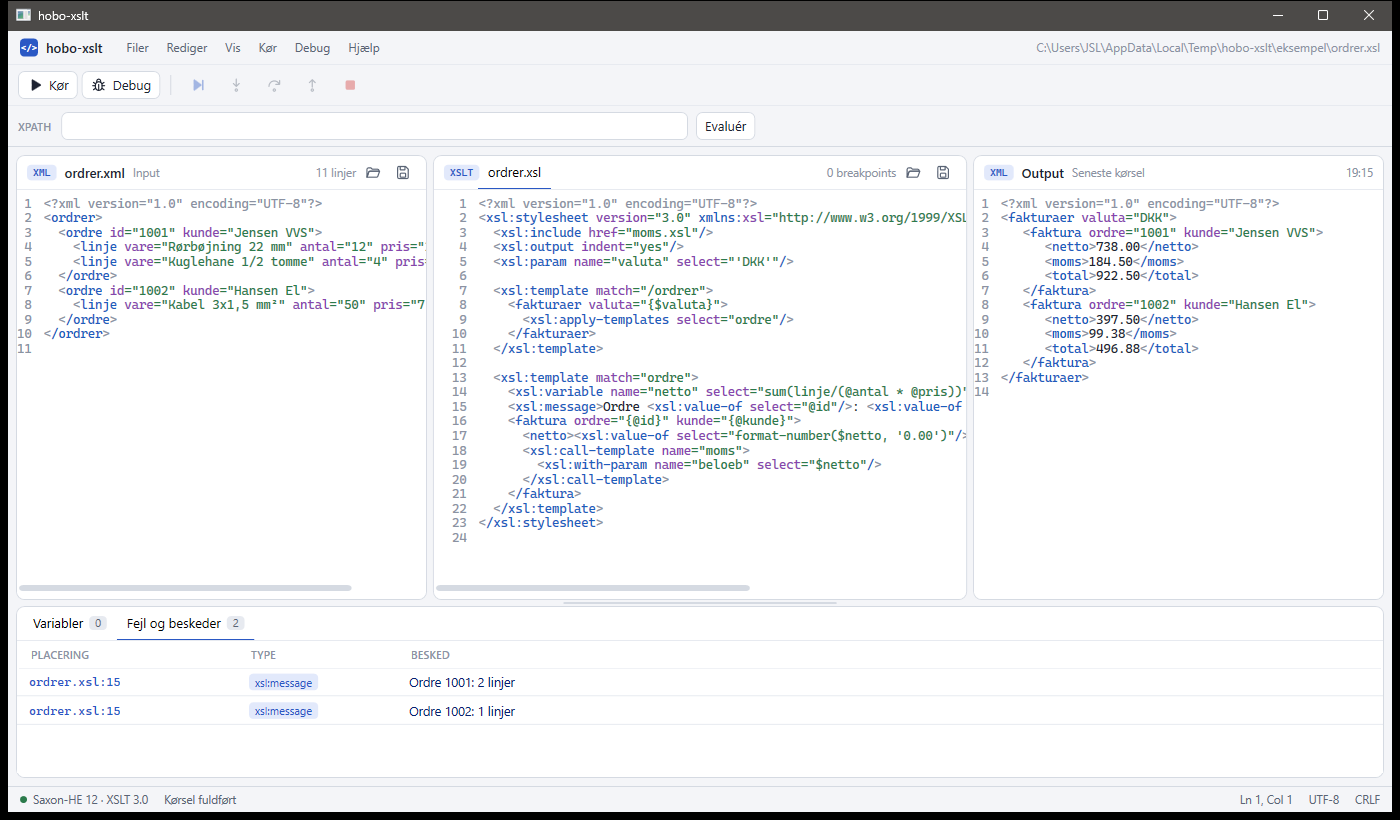
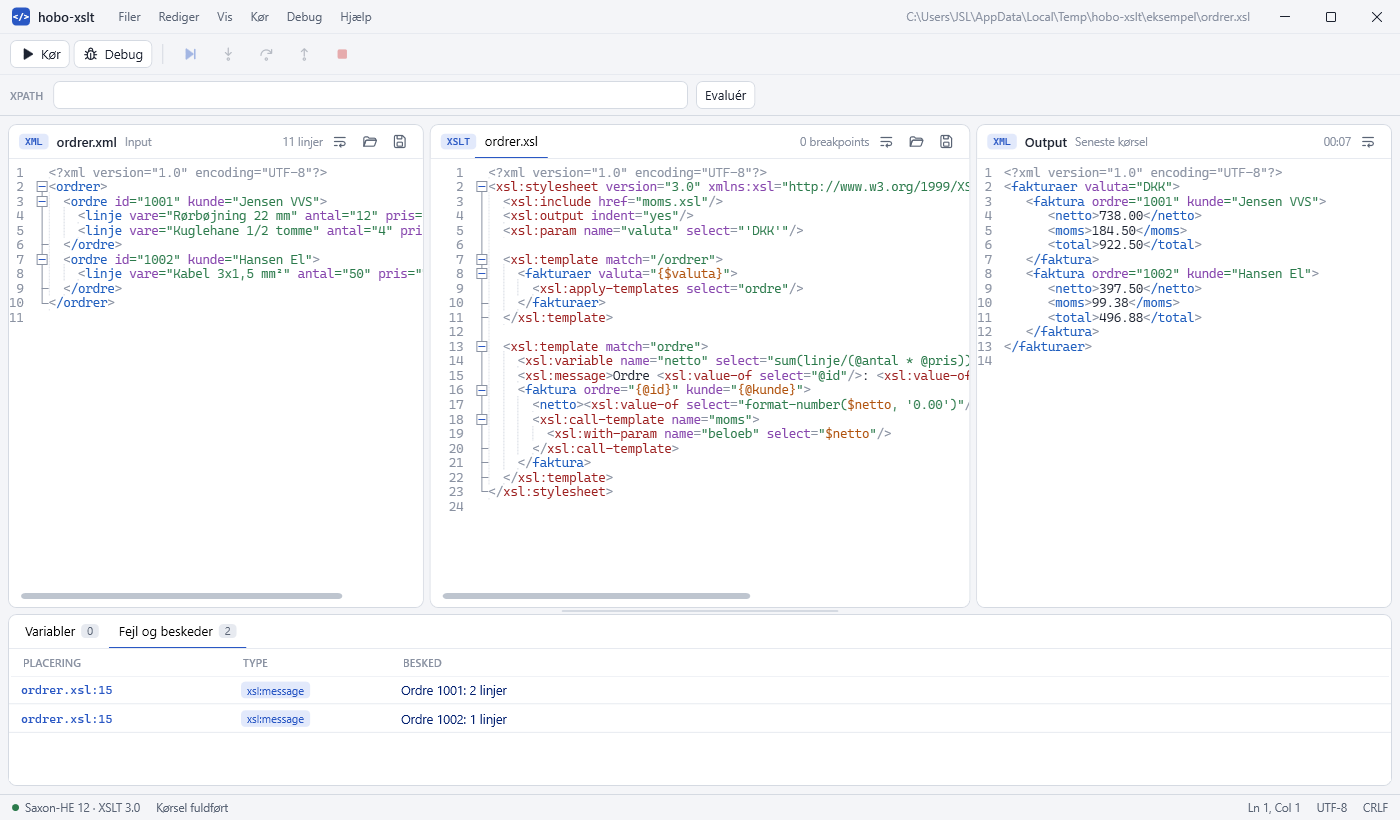
docs: README screenshots and text for the new title bar, folding on pause and settings

Changed region(s): [[0.0, 0.0, 1.0, 1.0], [0.2764, 0.7927, 0.3686, 0.8841], [0.1536, 0.7927, 0.2457, 0.8841]]

diff --git a/README.md b/README.md
@@ -26,6 +26,7 @@ hobo-xslt samler det, du skal bruge, når et XSLT-stylesheet ikke gør, som du f
 - **Dansk eller engelsk** – vælg sprog under **Vis → Sprog**.
 - **Én exe-fil** – `install.ps1` laver én exe og lægger en genvej i Start-menuen.
 - **Licenser** – **Hjælp → Licenser…** viser de komponenter, programmet bruger, med version, licens og link til projektet.
+- **Egen titellinje** – den øverste linje med logo, menuer og filsti er vinduets titellinje med knapper til minimer, maksimer og luk. Træk i den for at flytte vinduet, og dobbeltklik for at maksimere.
 
 ![Hovedvinduet efter en kørsel: ordrer.xml til venstre, ordrer.xsl i midten, fakturaer i Output og to xsl:message-beskeder nederst](docs/images/koersel.png)
 
@@ -103,7 +104,7 @@ Den første fane i **XSLT** er altid den fil, der bliver kørt. Ekstra faner kom
 
 1. **Sæt et breakpoint** ved at klikke i den smalle kant til venstre for linjenumrene. Der kommer en rød prik, og et nyt klik fjerner den. Det virker i alle faner, også i inkluderede filer.
 2. **Start debuggeren** med **Debug** eller F5.
-3. **Debuggeren holder pause** før den første instruktion på linjen. Filen åbnes, også hvis den er inkluderet, markøren står på linjen, linjen bliver orange, og øverst til højre står fx **Pauset ved moms.xsl:8**.
+3. **Debuggeren holder pause** før den første instruktion på linjen. Filen åbnes, også hvis den er inkluderet, markøren står på linjen, linjen bliver orange, og øverst til højre står fx **Pauset ved moms.xsl:8**. Er linjen foldet sammen, foldes den ud.
 4. **Gå videre** med knapperne i værktøjslinjen eller tasterne:
 
    | Knap | Tast | Hvad sker der |
@@ -116,7 +117,7 @@ Den første fane i **XSLT** er altid den fil, der bliver kørt. Ekstra faner kom
 
    Den orange linje flytter med for hvert trin, så du kan se, hvor du er. Den forsvinder, når kørslen stopper, bliver færdig eller fejler.
 
-   I ruden **XML** er starttagget for den node, kørslen arbejder på lige nu, lyseblåt (for en attribut eller tekst er det elementet, den ligger i). Er der ingen node, fx når en løkke går over tal, er der ingen markering.
+   I ruden **XML** er starttagget for den node, kørslen arbejder på lige nu, lyseblåt (for en attribut eller tekst er det elementet, den ligger i), og er det foldet sammen, foldes det ud. Er der ingen node, fx når en løkke går over tal, er der ingen markering.
 
 5. **Når kørslen er færdig**, står resultatet i **Output** og beskederne under **Fejl og beskeder**, og der står **Debugsession fuldført** nederst. Output og beskeder kommer frem undervejs, også mens debuggeren holder pause. Trykker du **Stop**, bliver det, der allerede er skrevet, stående, og der står **Debugsession stoppet** (med **output er ufuldstændigt**, hvis der er skrevet noget).
 
@@ -203,4 +204,4 @@ dotnet build HoboXslt.slnx
 dotnet test tests/HoboXslt.Core.Tests
 ```
 
-Testene dækker kørsel, fejl med fil og linje, debuggeren (breakpoints, trin, stop og variabler), XPath, sprogfilerne og at **Stop** stopper en uendelig løkke i både **Kør** og **Debug**. WPF-delen har ingen automatiske tests.
+Testene dækker kørsel, fejl med fil og linje, debuggeren (breakpoints, trin, stop og variabler), XPath, sprogfilerne, indstillingerne og at **Stop** stopper en uendelig løkke i både **Kør** og **Debug**. WPF-delen har ingen automatiske tests.
